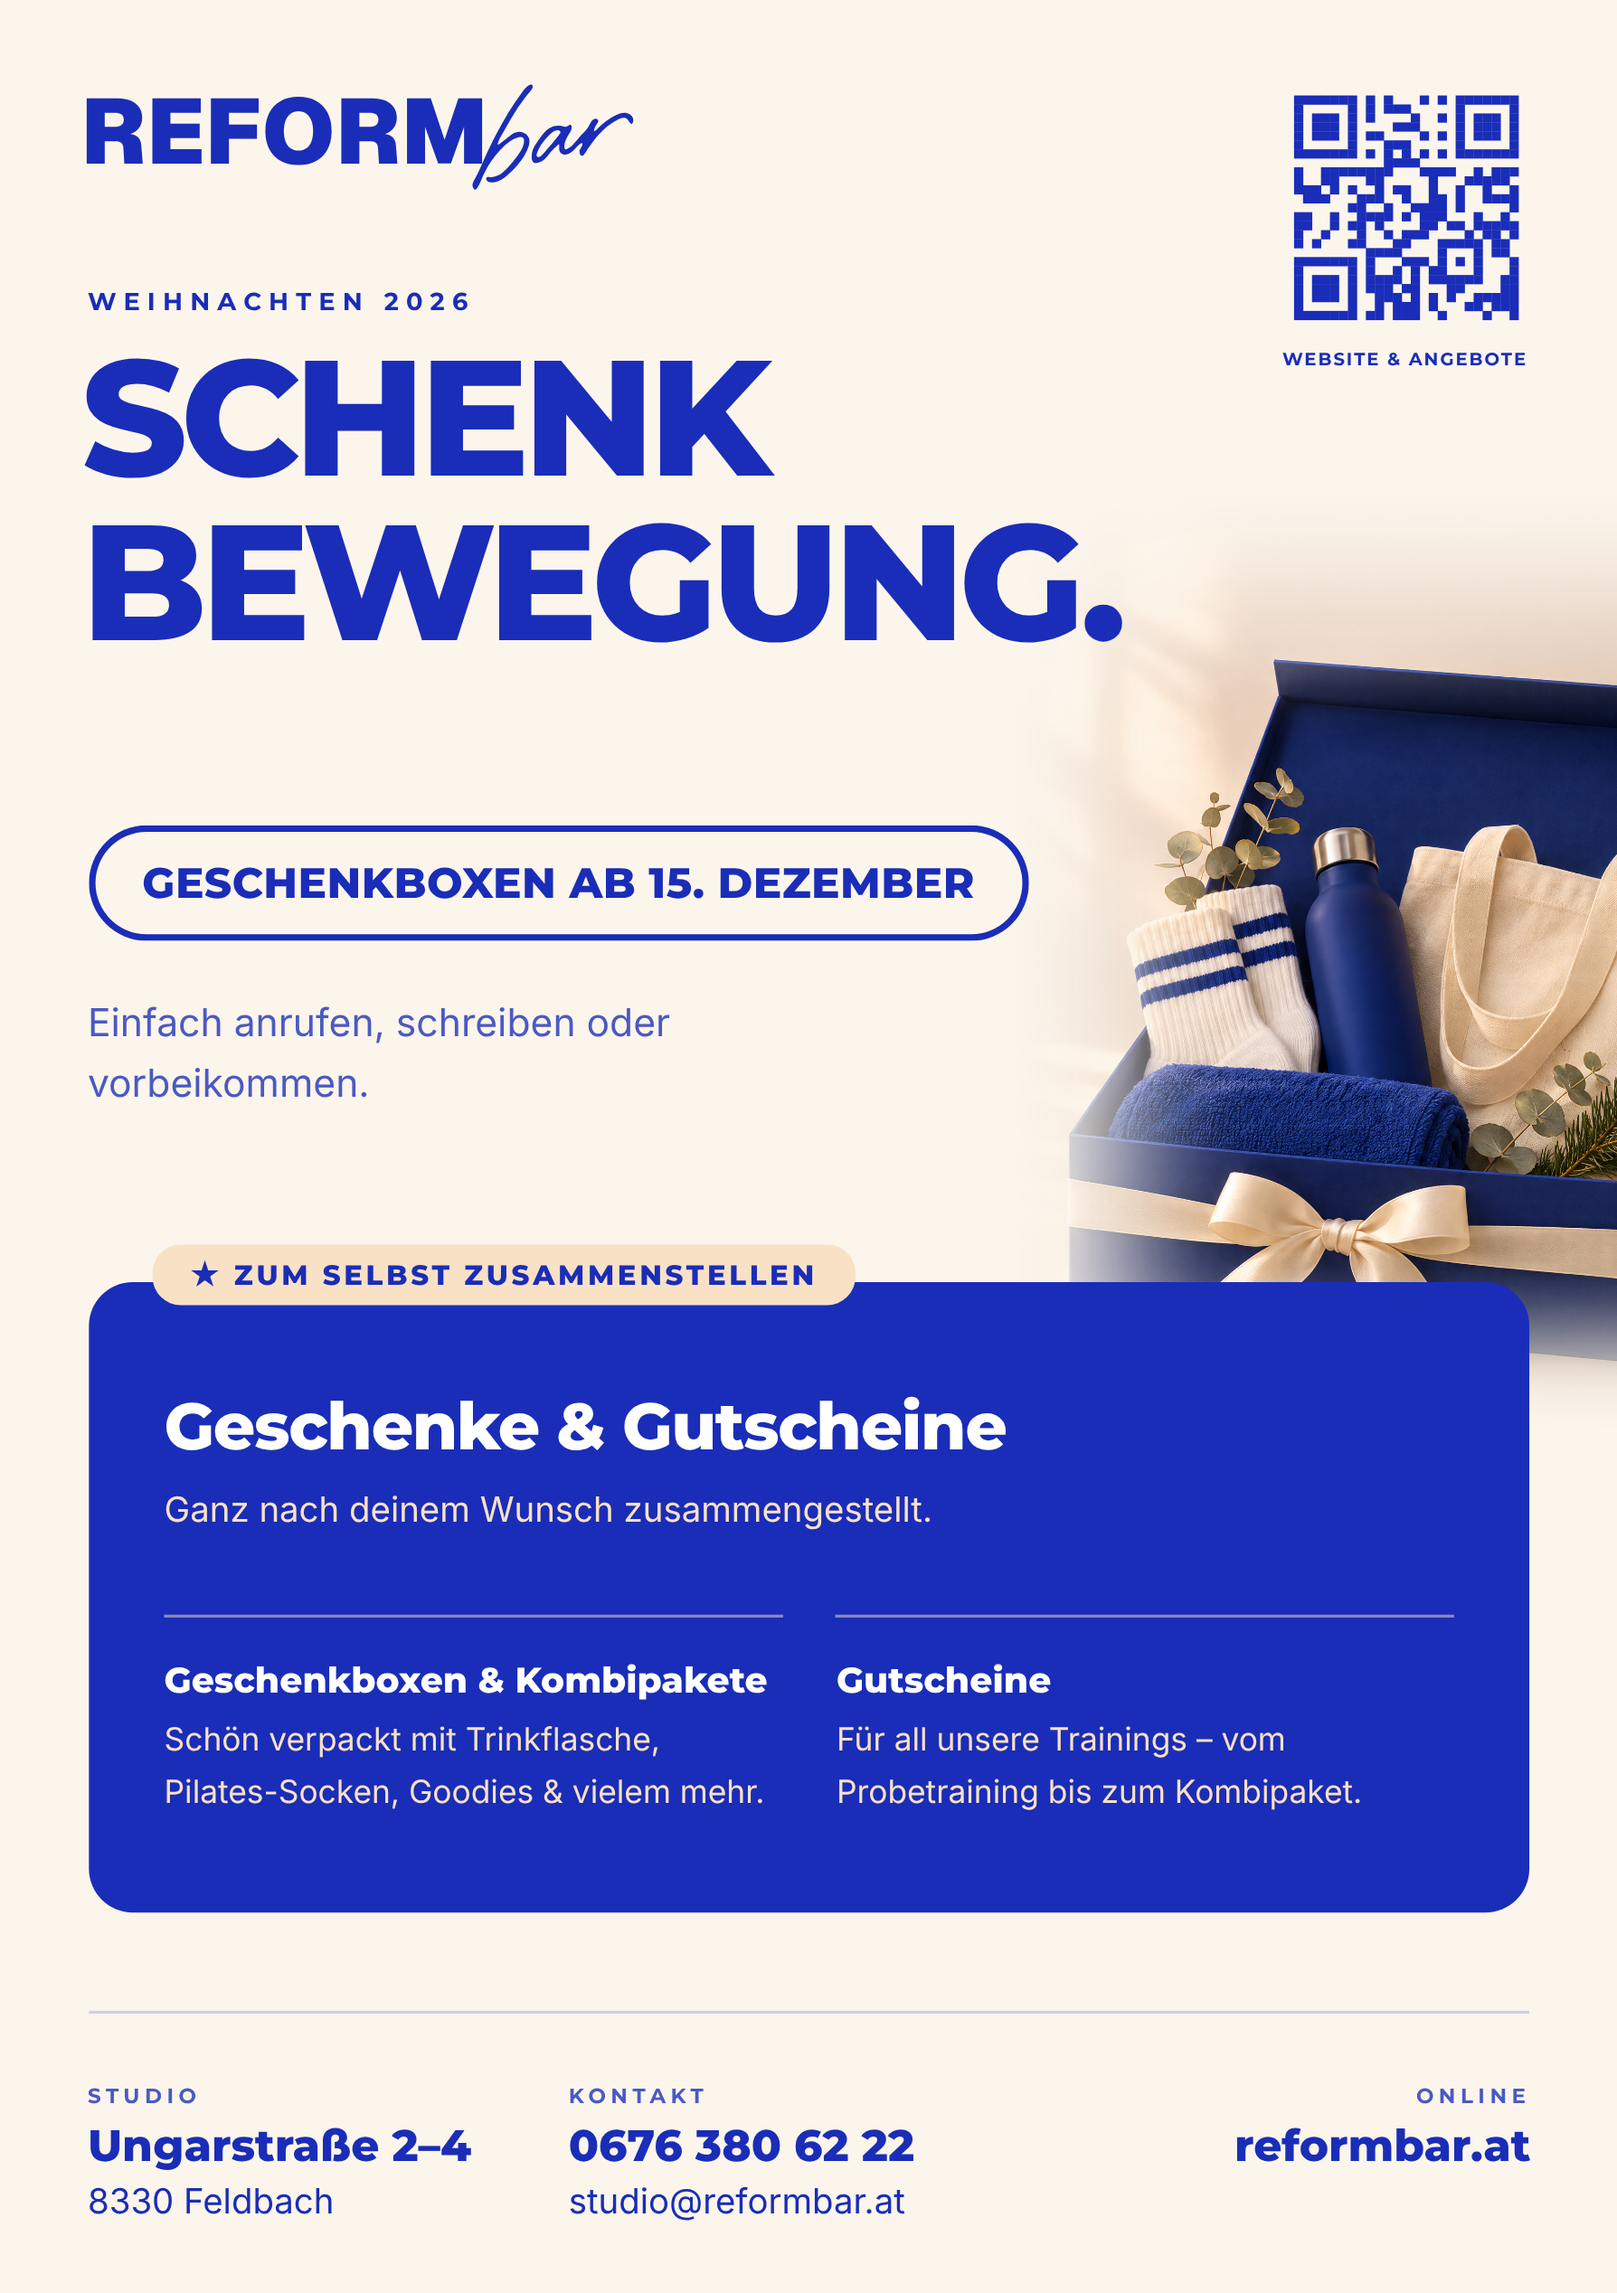
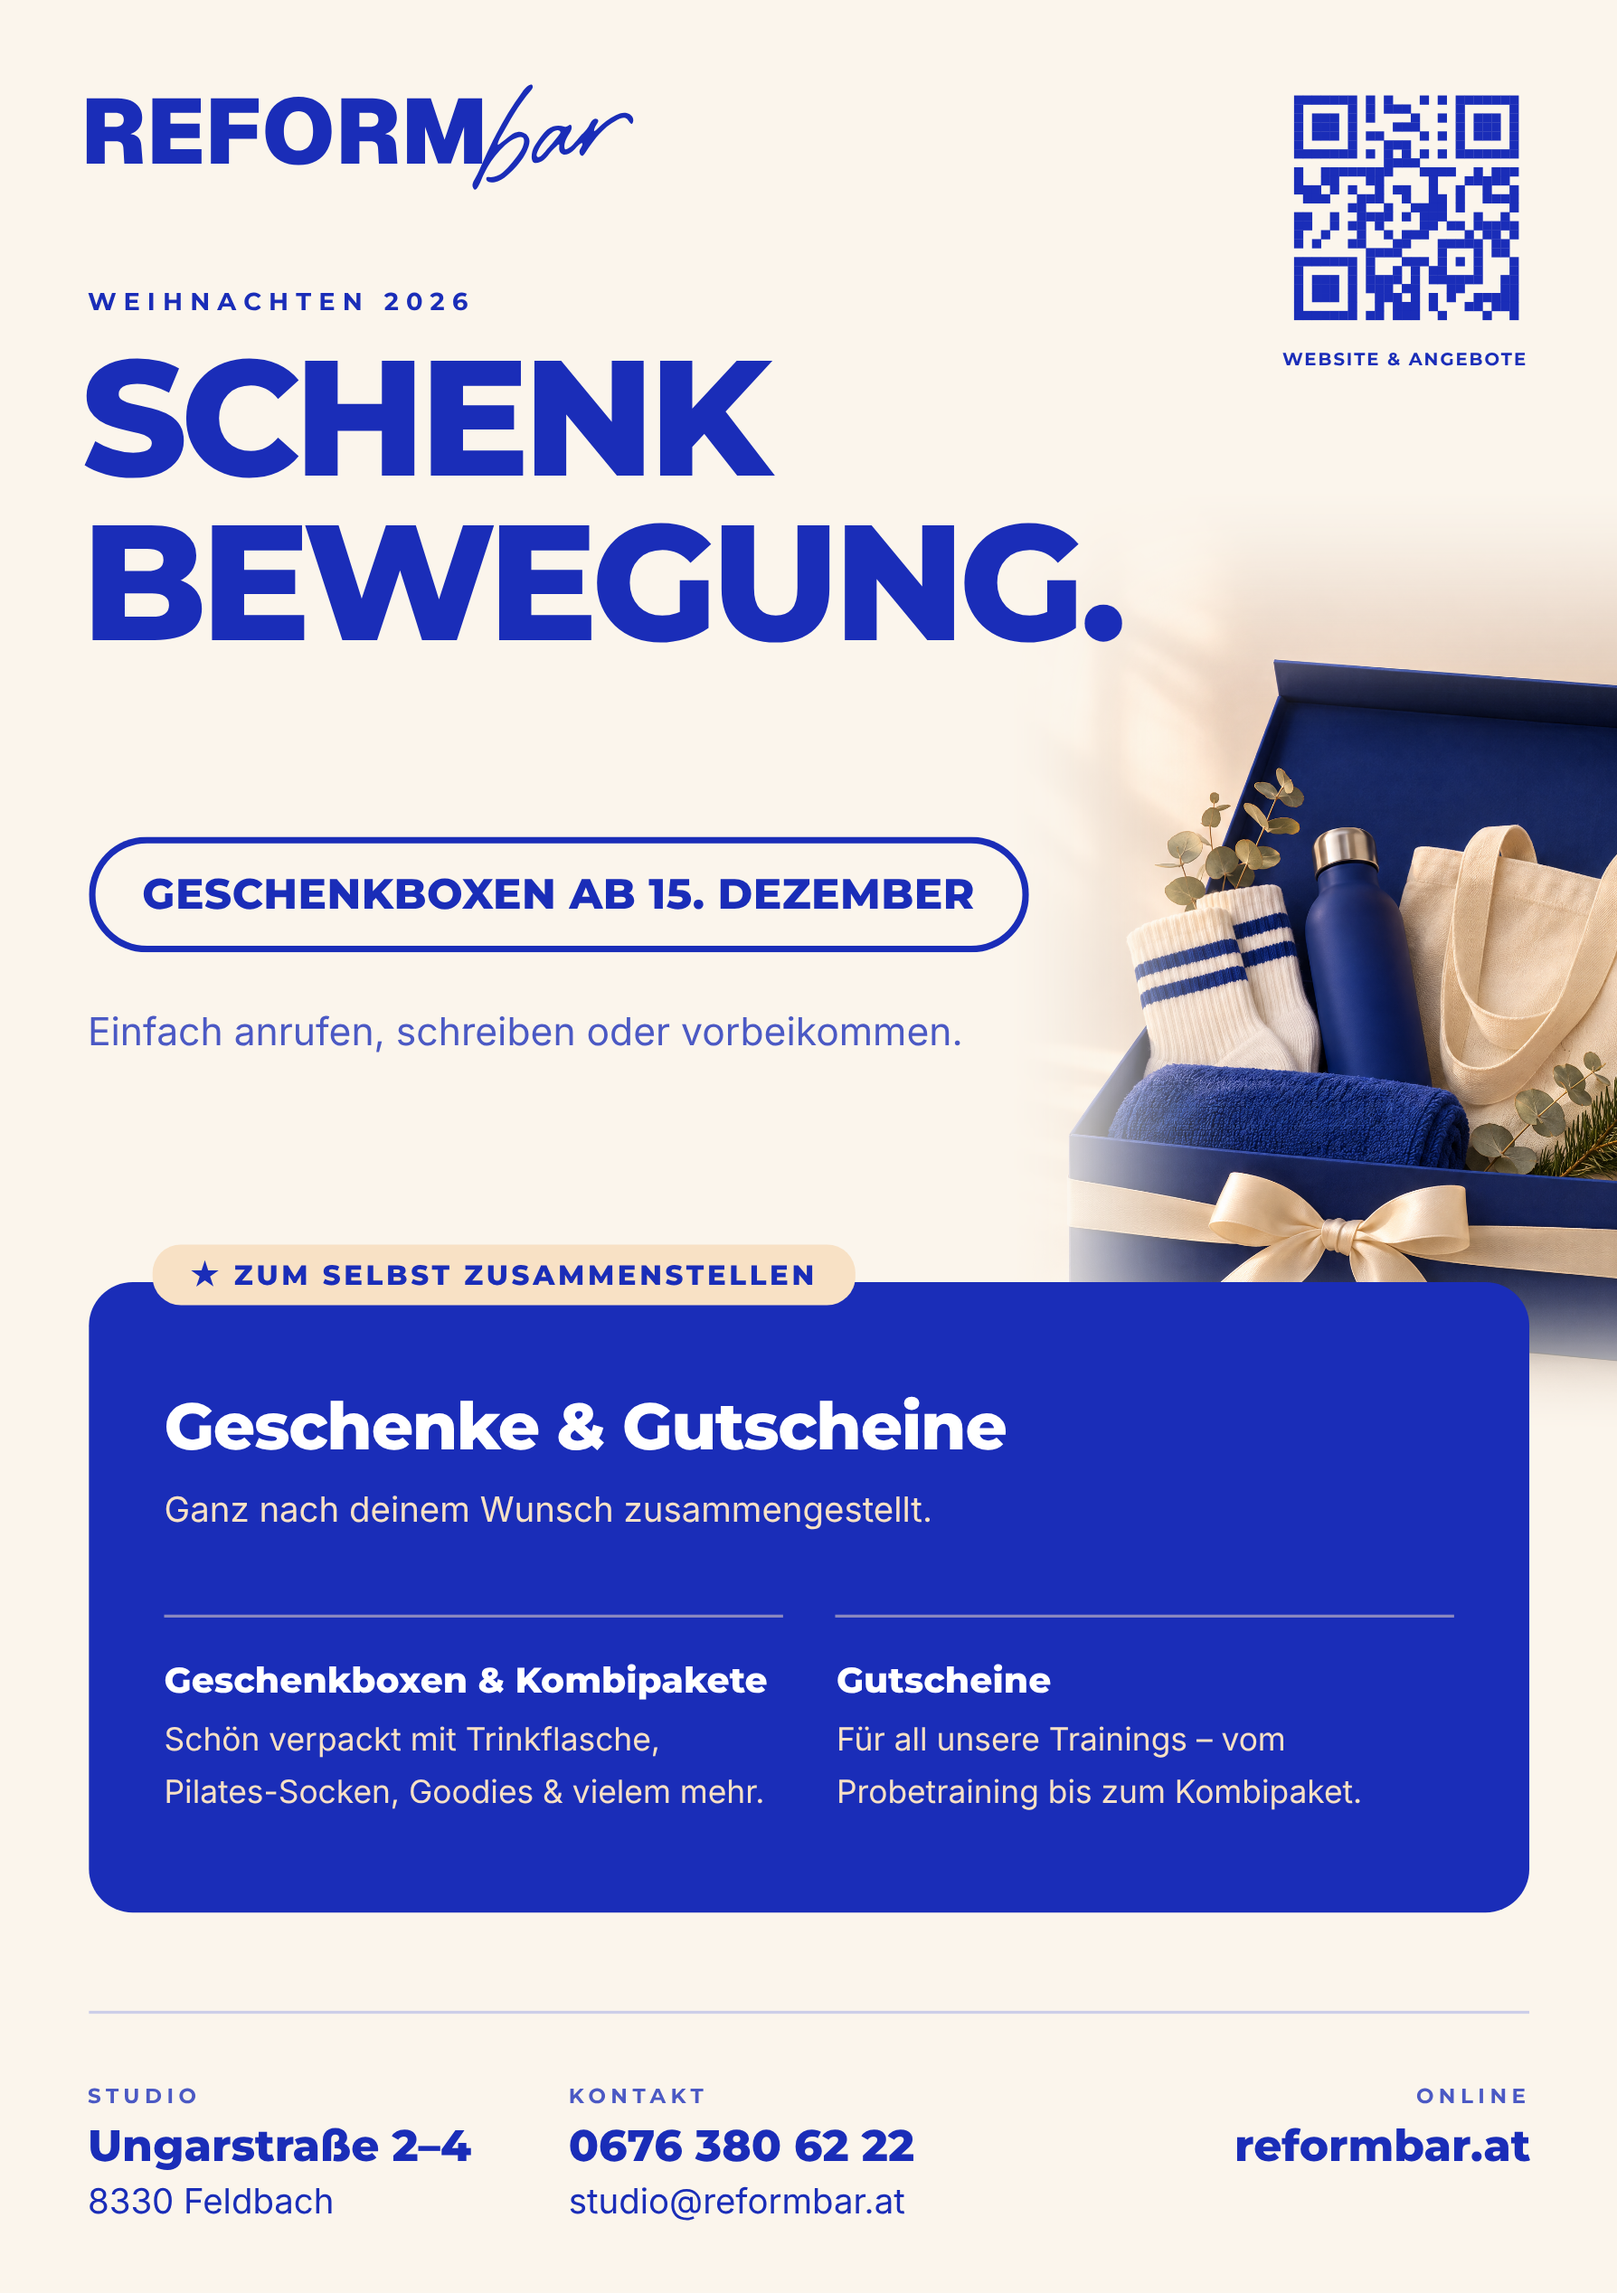
feat(reformbar): Flyer-Rueckseite – Geschenkboxen-Block mittig zentriert
Claude-Session: https://claude.ai/code/session_01BB7Ta5Dp96iwR8EapUrt2M

Changed region(s): [[0.0308, 0.3427, 0.646, 0.4984]]

diff --git a/reformbar-brand/07_Flyer_Eroeffnung_Weihnachten/_generator/flyer_build.js b/reformbar-brand/07_Flyer_Eroeffnung_Weihnachten/_generator/flyer_build.js
@@ -44,7 +44,7 @@ html,body{-webkit-print-color-adjust:exact;print-color-adjust:exact}
 .card .l{height:.25mm;background:#CCCEE8;margin:4mm 0}
 .card.hot{background:#1A2DB8;color:#fff;position:relative}.card.hot .d{color:#F8E1C5}.card.hot .k{color:#F8E1C5}
 .star{position:absolute;top:-2.6mm;left:4.6mm;background:#F8E1C5;color:#1A2DB8;font-family:Montserrat;font-weight:800;font-size:5.4pt;letter-spacing:.12em;padding:1.4mm 2.4mm;border-radius:2mm;white-space:nowrap}
-.gift{background:#1A2DB8;color:#fff;border-radius:4mm;padding:11mm 7mm 10mm;position:relative;z-index:2;display:flex;flex-direction:column;gap:4.4mm}.gift .k{font-family:Montserrat;font-weight:700;font-size:6pt;letter-spacing:.26em;color:#F8E1C5}.gift .n{font-family:Montserrat;font-weight:800;font-size:17pt;letter-spacing:-.02em}.gift .gl{display:grid;grid-template-columns:1fr 1fr;gap:5mm;margin-top:4mm}.gi2{display:flex;flex-direction:column;gap:3.2mm;border-top:.3mm solid rgba(248,225,197,.5);padding-top:4.6mm}.gi2 b{font-family:Montserrat;font-weight:800;font-size:9.2pt;white-space:nowrap}.gi2 span{font-size:8.3pt;line-height:4.9mm;color:#F8E1C5}.gift .star{left:6mm}.gift .sub{font-size:9pt;color:#F8E1C5;margin-top:0}.gch{display:flex;flex-wrap:wrap;gap:1.8mm;margin-top:1.6mm}.gch span{border:.3mm solid rgba(248,225,197,.7);color:#F8E1C5;border-radius:3mm;height:6mm;padding:0 2.8mm;display:flex;align-items:center;font-family:Montserrat;font-weight:600;font-size:7.2pt}.star.big{font-size:7.2pt;padding:2mm 3.4mm;top:-3.6mm;border-radius:2.6mm}
+.gift{margin-top:3.6mm;background:#1A2DB8;color:#fff;border-radius:4mm;padding:11mm 7mm 10mm;position:relative;z-index:2;display:flex;flex-direction:column;gap:4.4mm}.gift .k{font-family:Montserrat;font-weight:700;font-size:6pt;letter-spacing:.26em;color:#F8E1C5}.gift .n{font-family:Montserrat;font-weight:800;font-size:17pt;letter-spacing:-.02em}.gift .gl{display:grid;grid-template-columns:1fr 1fr;gap:5mm;margin-top:4mm}.gi2{display:flex;flex-direction:column;gap:3.2mm;border-top:.3mm solid rgba(248,225,197,.5);padding-top:4.6mm}.gi2 b{font-family:Montserrat;font-weight:800;font-size:9.2pt;white-space:nowrap}.gi2 span{font-size:8.3pt;line-height:4.9mm;color:#F8E1C5}.gift .star{left:6mm}.gift .sub{font-size:9pt;color:#F8E1C5;margin-top:0}.gch{display:flex;flex-wrap:wrap;gap:1.8mm;margin-top:1.6mm}.gch span{border:.3mm solid rgba(248,225,197,.7);color:#F8E1C5;border-radius:3mm;height:6mm;padding:0 2.8mm;display:flex;align-items:center;font-family:Montserrat;font-weight:600;font-size:7.2pt}.star.big{font-size:7.2pt;padding:2mm 3.4mm;top:-3.6mm;border-radius:2.6mm}
 .card .p{font-family:Montserrat;font-weight:800;font-size:8pt}
 .ord{display:grid;grid-template-columns:22mm 1fr;row-gap:3.4mm;align-items:baseline}
 .ord b{font-family:Montserrat;font-weight:800;font-size:6pt;letter-spacing:.28em}.ord span{font-size:8.4pt;color:#4B59C4}
@@ -78,7 +78,7 @@ const back=`<div class="page" id="back"><img class="abs" id="imgB" style="width:
 <div class="qr">${qr}<div class="tr">WEBSITE &amp; ANGEBOTE</div></div>
 <div class="stack" id="bs" style="top:${base2+12}mm;bottom:${210-184+9}mm;justify-content:space-between">
  <div class="pair"><div class="ey tr">WEIHNACHTEN 2026</div><div class="h1 tr" style="font-size:15mm;line-height:1.0;margin-left:-.6mm">SCHENK<br>BEWEGUNG.</div></div>
- <div class="pair" style="gap:6mm"><div class="pill" style="height:10.6mm;font-size:11pt">GESCHENKBOXEN AB 15. DEZEMBER</div><div class="para tr" style="width:76mm;font-size:10pt;line-height:5.6mm">Einfach anrufen, schreiben oder vorbeikommen.</div></div>
+ <div class="pair" style="gap:6mm"><div class="pill" style="height:10.6mm;font-size:11pt">GESCHENKBOXEN AB 15. DEZEMBER</div><div class="para tr" style="width:86mm;font-size:10pt;line-height:5.6mm;white-space:nowrap">Einfach anrufen, schreiben oder vorbeikommen.</div></div>
  <div class="gift" id="cards"><div class="star big tr">★ ZUM SELBST ZUSAMMENSTELLEN</div>
   <div class="n tr">Geschenke &amp; Gutscheine</div>
   <div class="sub tr">Ganz nach deinem Wunsch zusammengestellt.</div>
